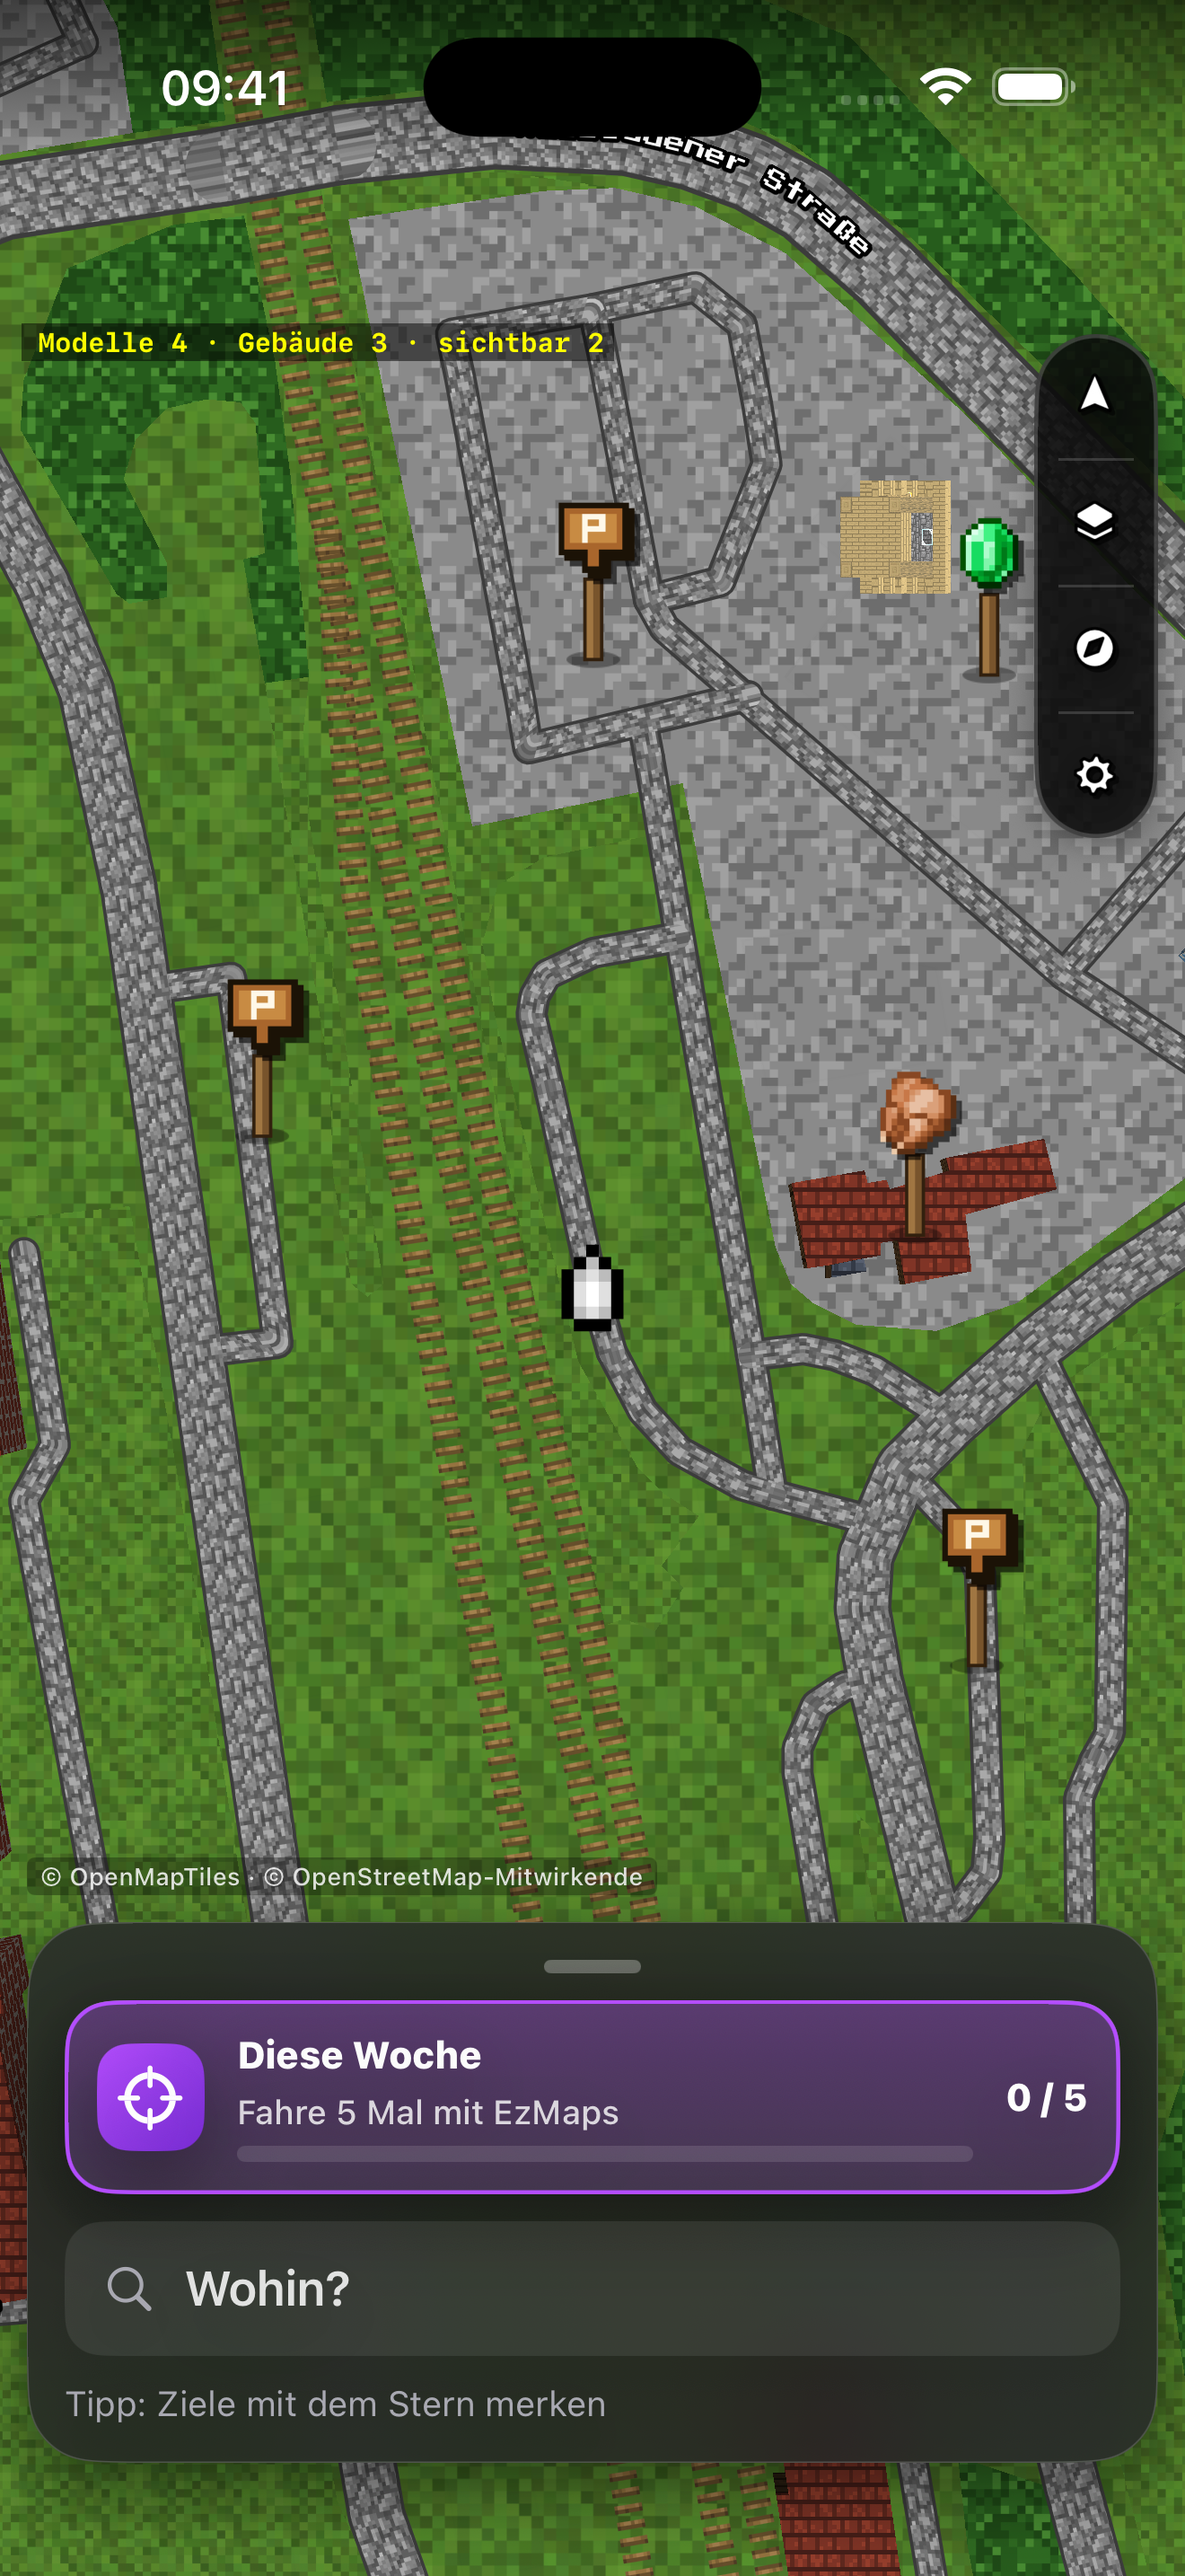
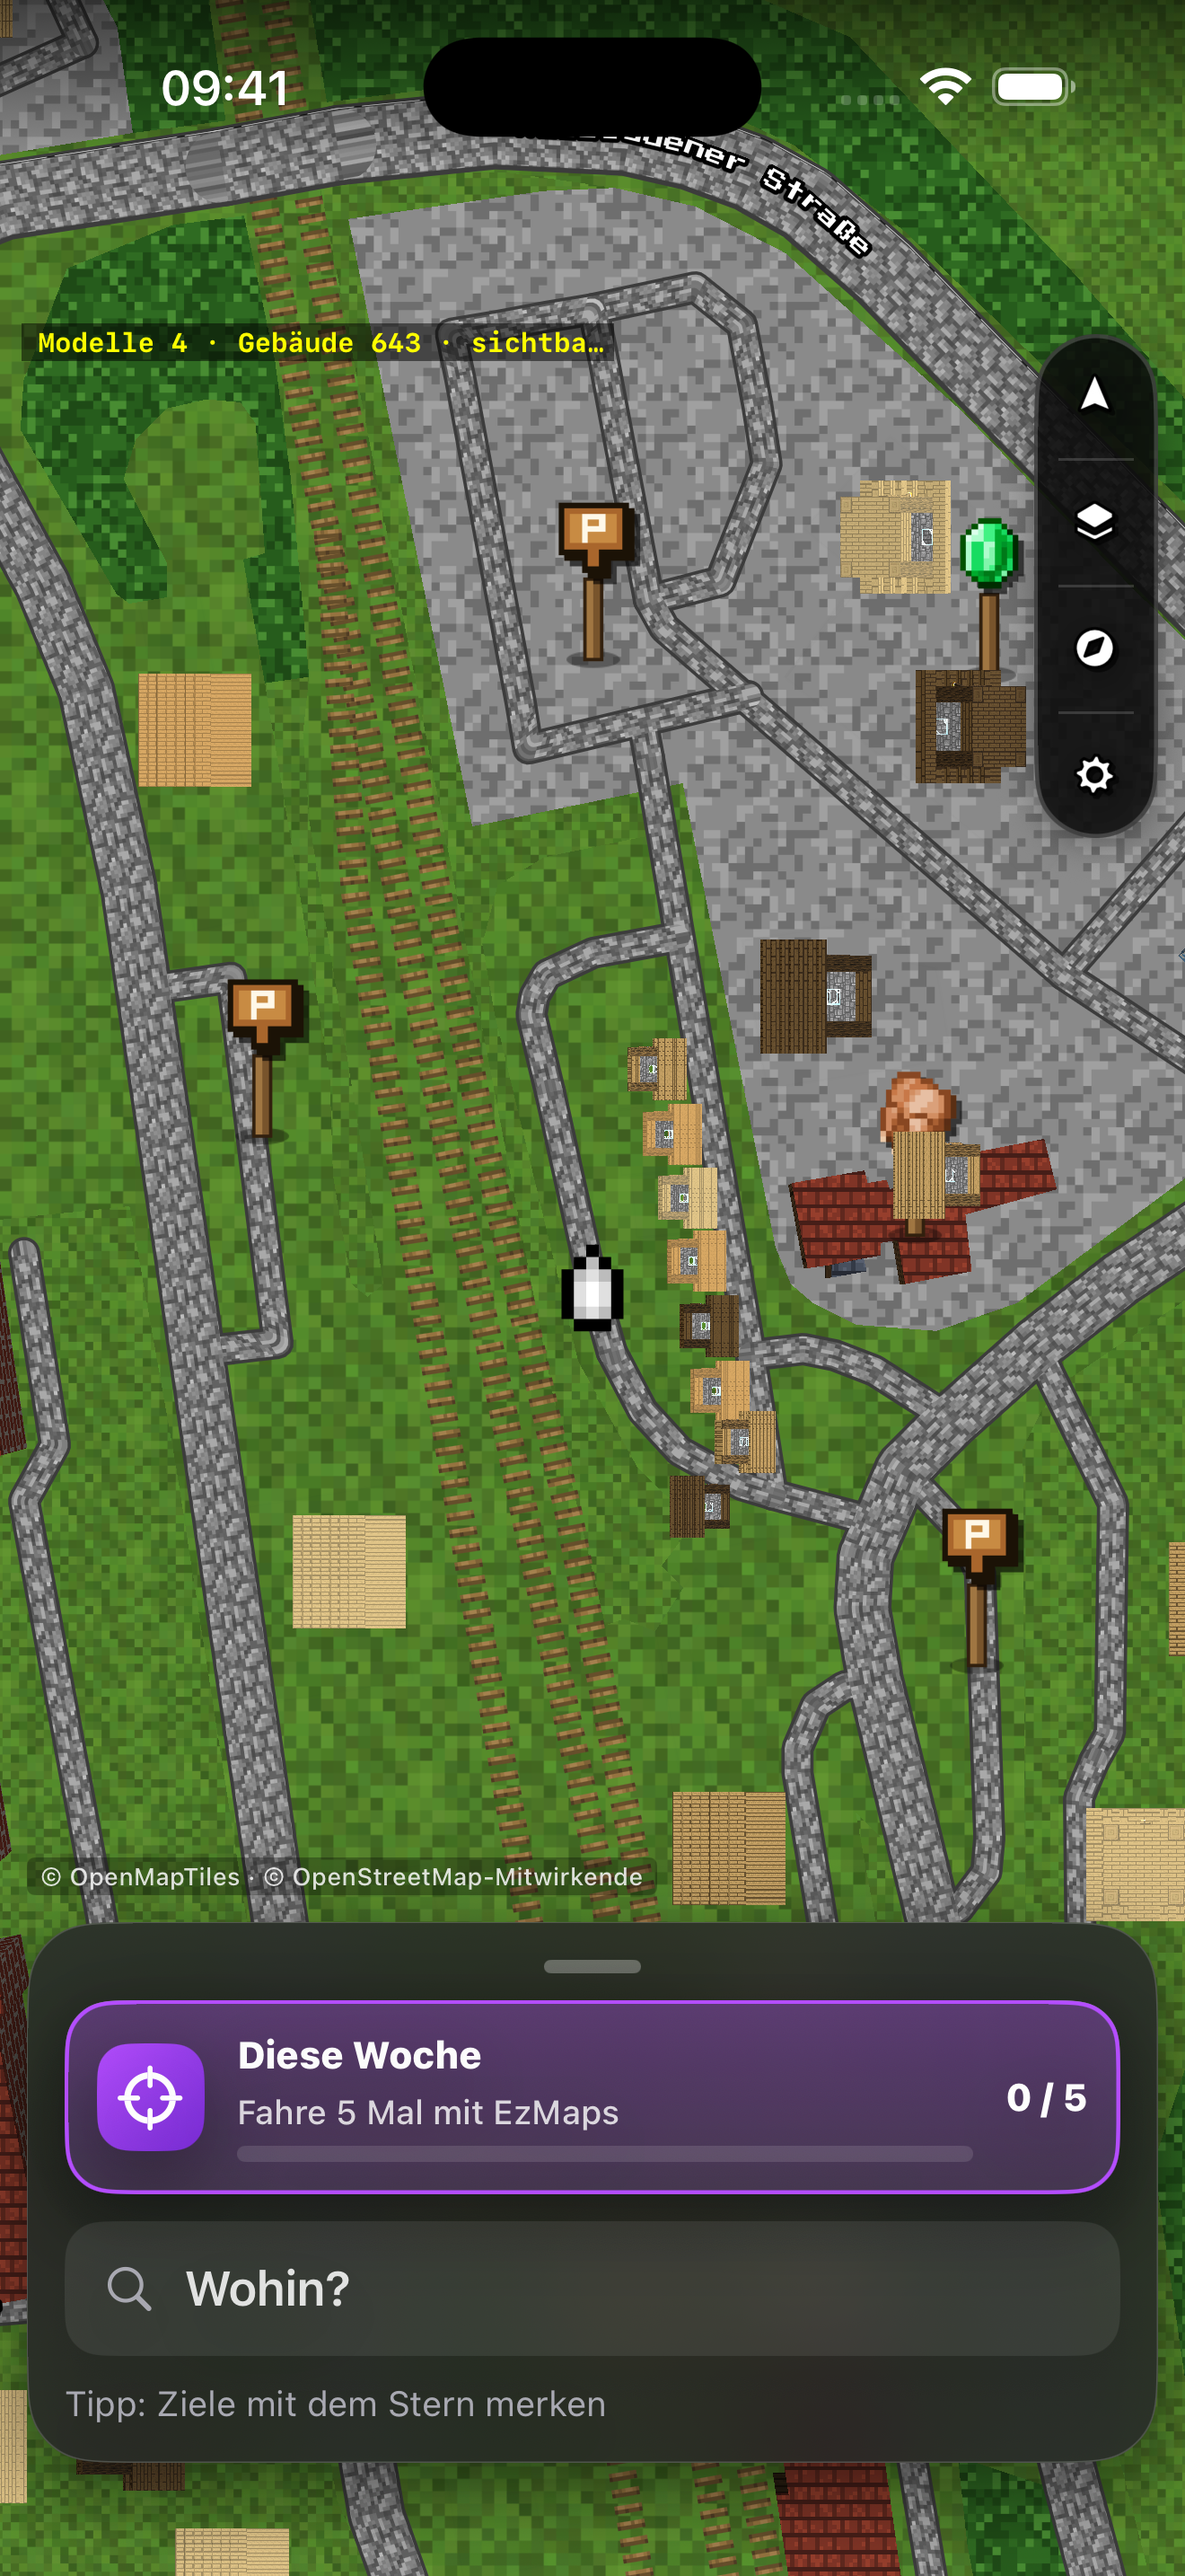
GM-093: Häuser-Neigung für Z-up-Modelle

diff --git a/App/VillageLayer.swift b/App/VillageLayer.swift
@@ -59,7 +59,7 @@ final class VillageLayer {
         debug.font = .monospacedSystemFont(ofSize: 10, weight: .bold)
         debug.textColor = .yellow
         debug.backgroundColor = UIColor.black.withAlphaComponent(0.5)
-        debug.frame = CGRect(x: 8, y: 120, width: 220, height: 14)
+        debug.frame = CGRect(x: 8, y: 120, width: 300, height: 14)
         view.addSubview(debug)
         #endif
     }
@@ -139,7 +139,8 @@ final class VillageLayer {
             let s = ppm * Float(house.size)
             house.node.scale = SCNVector3(s, s, s)
             house.node.position = SCNVector3(Float(p.x - w / 2), Float(h / 2 - p.y), Float(p.y))
-            house.node.eulerAngles = SCNVector3(.pi / 2 - pitch, -Float((house.angle - dir) * .pi / 180), 0)
+            // GM-093: Die Codex-.scn steht schon mit „oben“ zur Kamera (Z-up) – nur nach Kartenneigung kippen, um Z nach Gebäudekante drehen
+            house.node.eulerAngles = SCNVector3(-pitch, 0, -Float((house.angle - dir) * .pi / 180))
         }
     }
 }
